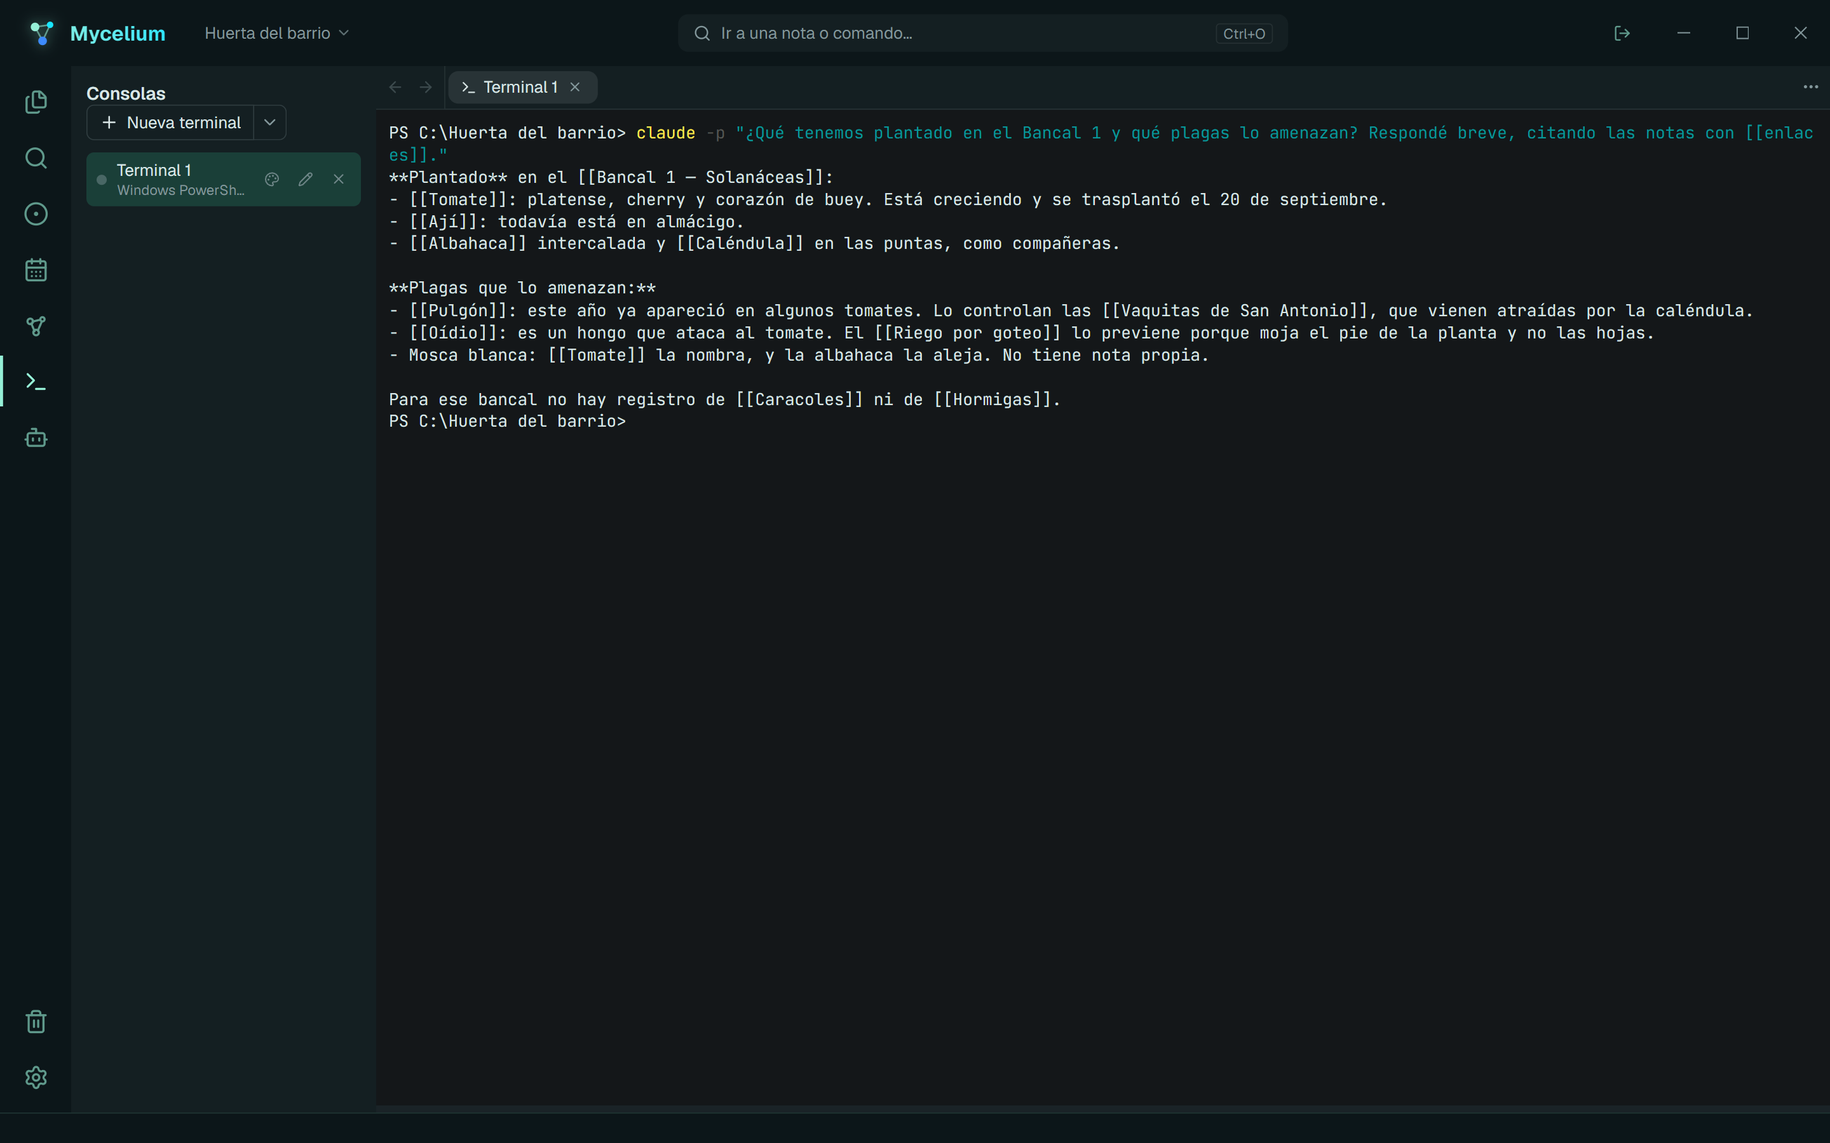
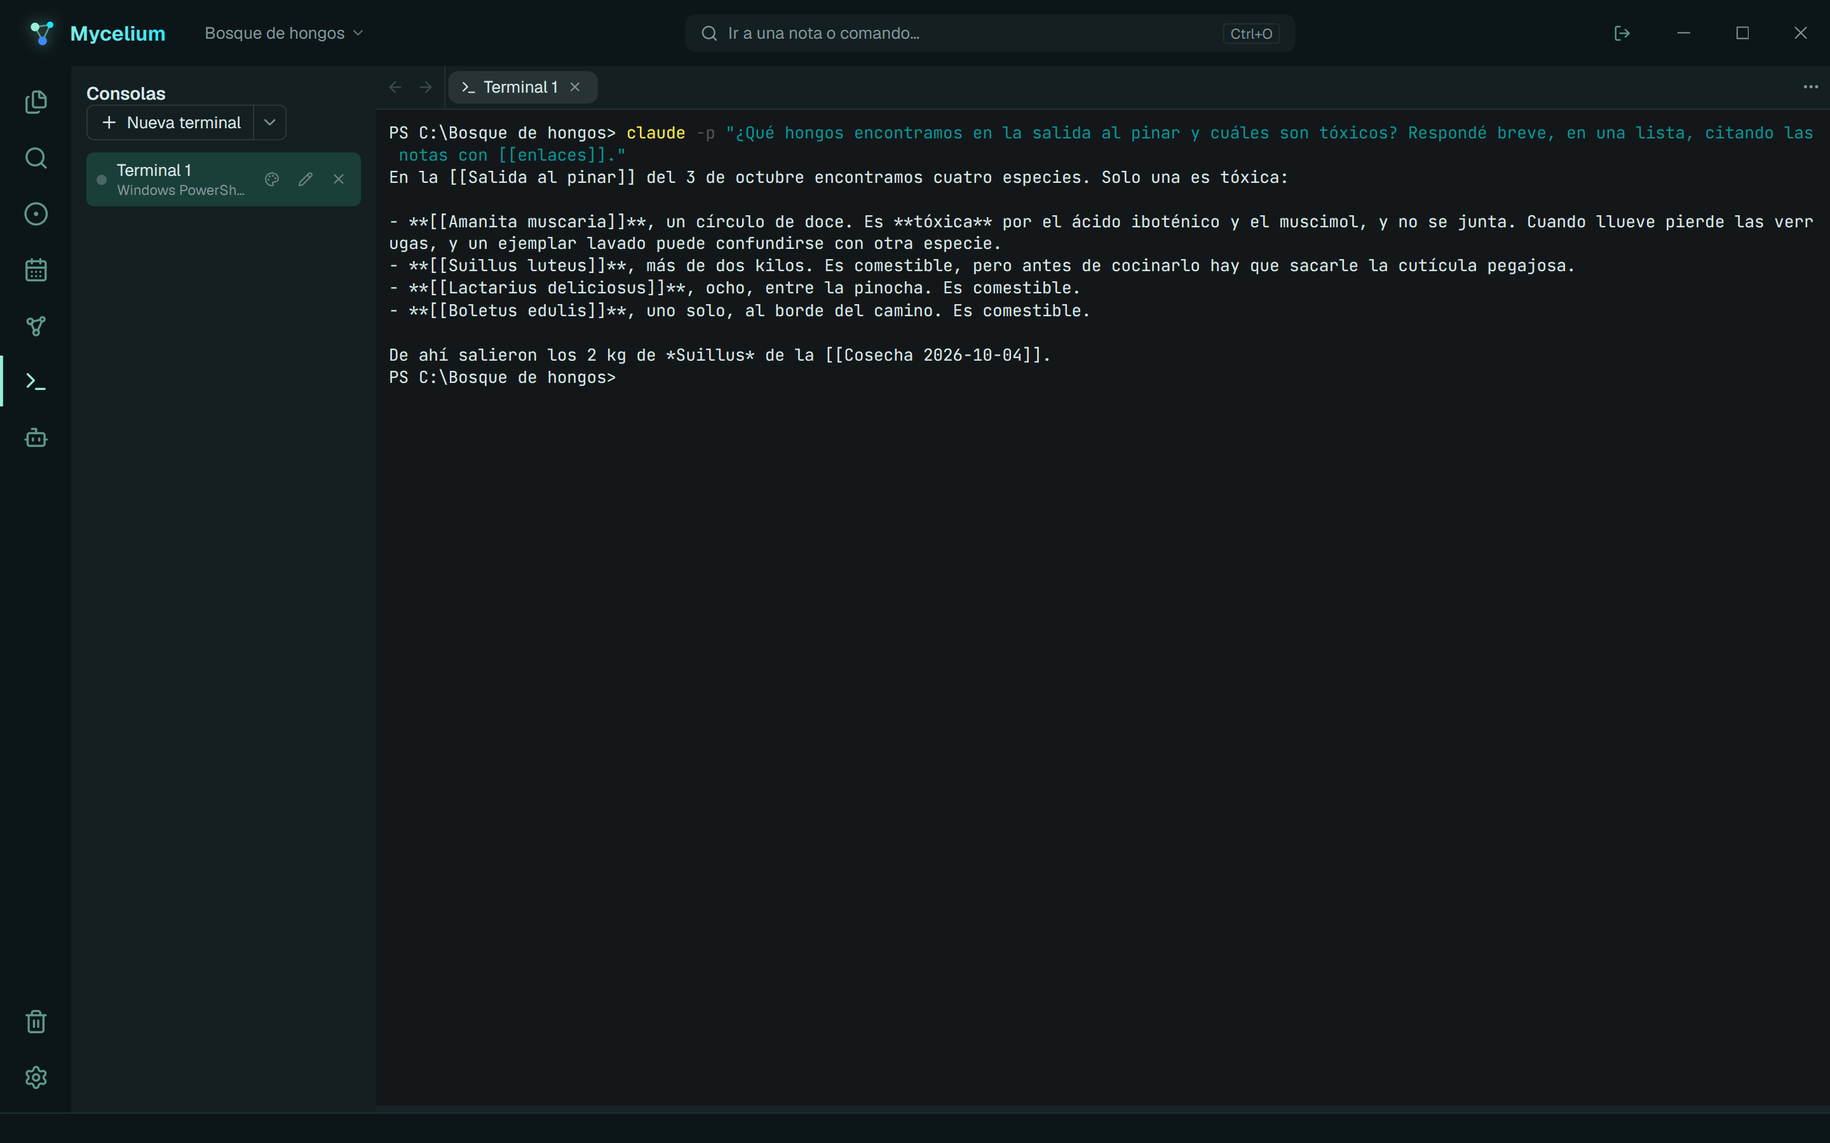
feat(capturas): el vault de ejemplo pasa a ser el bosque de hongos
Las diez capturas se rehicieron sobre un vault de demostración nuevo,
«Bosque de hongos» (especies, conceptos, cultivo de gírgolas, salidas de
recolección), con la misma composición que las de la huerta: la nota
protagonista es «Gírgola», la de lectura con retroenlaces es «Micorrizas»,
el lienzo es «Ciclo de vida del hongo» y la terminal responde de verdad a
«¿qué hongos encontramos en la salida al pinar y cuáles son tóxicos?».

- Recortes: el lienzo nuevo tiene otra composición, así que su recorte de
  escritorio (1410×1300) y el de celular (670×806) cambian; el de lectura
  crece a 1342×1171 para no cortar el dibujo embebido.
- La terminal angosta del celular queda en 804×760.
- index.html: alt de cada captura, pie de portada, ejemplo de búsqueda
  (tag:comestible, estado:fructificando) y pregunta a Claude Code.
- README, DESIGN y el contrato de impeccable nombran el vault nuevo.

diff --git a/public/index.html b/public/index.html
@@ -28,7 +28,7 @@
   <header class="portada" id="inicio">
     <picture class="portada-red">
       <source media="(max-width: 760px)" srcset="capturas/02-grafo-portada-movil.webp" width="1000" height="1364">
-      <img src="capturas/02-grafo-portada-1440.webp" srcset="capturas/02-grafo-portada-1440.webp 1440w, capturas/02-grafo-portada.webp 2560w" sizes="80vw" width="2560" height="1540" fetchpriority="high" decoding="async" alt="El grafo de conexiones del vault «Huerta del barrio»: decenas de notas como círculos de colores según su etiqueta —cultivos, bancales, plagas, encuentros—, unidas por líneas finas que forman una red, con «Huerta del barrio» en el centro.">
+      <img src="capturas/02-grafo-portada-1440.webp" srcset="capturas/02-grafo-portada-1440.webp 1440w, capturas/02-grafo-portada.webp 2560w" sizes="80vw" width="2560" height="1540" fetchpriority="high" decoding="async" alt="El grafo de conexiones del vault «Bosque de hongos»: decenas de notas como círculos de colores según su etiqueta —especies en verde, tóxicas en rojo, conceptos en azul, lotes de cultivo en violeta, salidas en rosa, plagas en naranja—, unidas por líneas finas que forman una red, con «Bosque de hongos» en el centro.">
     </picture>
     <div class="portada-velo" aria-hidden="true"></div>
 
@@ -77,7 +77,7 @@
       <p class="version-linea"><span data-mic="con-version">Mycelium <span data-mic="version">2.4.0</span> · </span>Windows, macOS y Linux</p>
     </div>
 
-    <p class="portada-pie">el grafo real del vault de ejemplo «Huerta del barrio»</p>
+    <p class="portada-pie">el grafo real del vault de ejemplo «Bosque de hongos»</p>
   </header>
 
   <main id="contenido" class="red">
@@ -95,7 +95,7 @@
           <p class="nodo-nombre" aria-hidden="true">escribir</p>
         </div>
         <figure class="captura" style="--ancho-max: 26rem">
-          <div class="marco"><img src="capturas/01-nota-en-vivo-recorte.webp" width="828" height="914" loading="lazy" decoding="async" alt="La nota «Tomate» en el editor en vivo: arriba sus propiedades (familia solanáceas, Bancal 1, estado creciendo, etiquetas #cultivo y #verano), debajo el texto con enlaces a otras notas, un callout de consejo y uno de advertencia."></div>
+          <div class="marco"><img src="capturas/01-nota-en-vivo-recorte.webp" width="828" height="914" loading="lazy" decoding="async" alt="La nota «Gírgola» en el editor en vivo: arriba sus propiedades (Pleurotus ostreatus, familia pleurotáceas, hábitat madera muerta de álamo y sauce, comestible, estado fructificando, etiquetas #especie, #comestible y #saprofita), debajo el texto con enlaces a otras notas y un callout de consejo sobre ventilar el cultivo."></div>
         </figure>
       </article>
 
@@ -107,19 +107,19 @@
           <p class="nodo-nombre" aria-hidden="true">conectar</p>
         </div>
         <figure class="captura" style="--ancho-max: 34rem">
-          <div class="marco"><picture><source media="(max-width: 760px)" srcset="capturas/05-lectura-enlaces-recorte-movil.webp" width="662" height="763"><img src="capturas/05-lectura-enlaces-recorte-1x.webp" srcset="capturas/05-lectura-enlaces-recorte-1x.webp 671w, capturas/05-lectura-enlaces-recorte.webp 1342w" sizes="(max-width: 760px) 100vw, 34rem" width="1342" height="1123" loading="lazy" decoding="async" alt="La nota «Tres hermanas» en lectura, con el panel de enlaces abierto en la pestaña de retroenlaces: las notas que la citan —Calendario de siembra, Maíz, Asociación de cultivos, Bancal 3, Bitácora de temporada, Poroto, Zapallo— con el fragmento donde la mencionan."></picture></div>
+          <div class="marco"><picture><source media="(max-width: 760px)" srcset="capturas/05-lectura-enlaces-recorte-movil.webp" width="662" height="763"><img src="capturas/05-lectura-enlaces-recorte-1x.webp" srcset="capturas/05-lectura-enlaces-recorte-1x.webp 671w, capturas/05-lectura-enlaces-recorte.webp 1342w" sizes="(max-width: 760px) 100vw, 34rem" width="1342" height="1171" loading="lazy" decoding="async" alt="La nota «Micorrizas» en lectura, con parte de su dibujo de la red micorrícica a la izquierda y el panel de enlaces abierto en la pestaña de retroenlaces: las notas que la citan —Ciclo de vida del hongo, Bosque de hongos, Hifa, Identificación segura, Micelio, Red micorrícica, Saprofitos, Amanita muscaria— con el fragmento donde la mencionan."></picture></div>
         </figure>
       </article>
 
       <article class="nodo" id="encontrar" aria-labelledby="t-encontrar">
         <div class="nodo-texto">
           <h3 id="t-encontrar">Tres letras y estás ahí</h3>
-          <p><kbd>Ctrl</kbd>&#8239;+&#8239;<kbd>O</kbd> abre cualquier nota y <kbd>Ctrl</kbd>&#8239;+&#8239;<kbd>P</kbd>, cualquier comando. La búsqueda global entra también en el contenido: <code>tag:cultivo</code> filtra por etiqueta y <code>estado:creciendo</code>, por una propiedad.</p>
+          <p><kbd>Ctrl</kbd>&#8239;+&#8239;<kbd>O</kbd> abre cualquier nota y <kbd>Ctrl</kbd>&#8239;+&#8239;<kbd>P</kbd>, cualquier comando. La búsqueda global entra también en el contenido: <code>tag:comestible</code> filtra por etiqueta y <code>estado:fructificando</code>, por una propiedad.</p>
           <span class="punto" aria-hidden="true"></span>
           <p class="nodo-nombre" aria-hidden="true">encontrar</p>
         </div>
         <figure class="captura" style="--ancho-max: 40rem">
-          <div class="marco"><picture><source media="(max-width: 760px)" srcset="capturas/03-paleta-recorte-movil.webp" width="608" height="452"><img src="capturas/03-paleta-recorte-1x.webp" srcset="capturas/03-paleta-recorte-1x.webp 634w, capturas/03-paleta-recorte.webp 1267w" sizes="(max-width: 760px) 100vw, 40rem" width="1267" height="706" loading="lazy" decoding="async" alt="La paleta abierta con «tom» escrito: la primera opción es la nota «Tomate», de la carpeta Cultivos, seguida de otras notas que coinciden y de «Crear nota «tom»»; al pie, los atajos Ctrl+O para notas y Ctrl+P para comandos."></picture></div>
+          <div class="marco"><picture><source media="(max-width: 760px)" srcset="capturas/03-paleta-recorte-movil.webp" width="608" height="452"><img src="capturas/03-paleta-recorte-1x.webp" srcset="capturas/03-paleta-recorte-1x.webp 634w, capturas/03-paleta-recorte.webp 1267w" sizes="(max-width: 760px) 100vw, 40rem" width="1267" height="706" loading="lazy" decoding="async" alt="La paleta abierta con «gír» escrito: la primera opción es la nota «Gírgola», de la carpeta Especies, seguida de otras notas que coinciden y de «Crear nota «gír»»; al pie, los atajos Ctrl+O para notas y Ctrl+P para comandos."></picture></div>
         </figure>
       </article>
 
@@ -131,7 +131,7 @@
           <p class="nodo-nombre" aria-hidden="true">agendar</p>
         </div>
         <figure class="captura" style="--ancho-max: 30rem">
-          <div class="marco"><picture><source media="(max-width: 760px)" srcset="capturas/06-calendario-recorte-movil.webp" width="583" height="727"><img src="capturas/06-calendario-recorte-1x.webp" srcset="capturas/06-calendario-recorte-1x.webp 490w, capturas/06-calendario-recorte.webp 980w" sizes="(max-width: 760px) 100vw, 30rem" width="980" height="802" loading="lazy" decoding="async" alt="La agenda de octubre de 2026: un recordatorio por línea, con su casilla, su color y su hora —regar los almácigos los miércoles a las 08:00, revisar el pulgón, dar vuelta el compost los sábados a las 10:00, la asamblea a las 18:00—."></picture></div>
+          <div class="marco"><picture><source media="(max-width: 760px)" srcset="capturas/06-calendario-recorte-movil.webp" width="583" height="727"><img src="capturas/06-calendario-recorte-1x.webp" srcset="capturas/06-calendario-recorte-1x.webp 490w, capturas/06-calendario-recorte.webp 980w" sizes="(max-width: 760px) 100vw, 30rem" width="980" height="802" loading="lazy" decoding="async" alt="La agenda de octubre de 2026: un recordatorio por línea, con su casilla, su color y su hora —revisar la humedad los miércoles a las 08:00, la esporada de gírgola, remojar los troncos los sábados a las 10:00, inocular el lote 4, la salida al pinar a las 08:00—."></picture></div>
         </figure>
       </article>
 
@@ -143,14 +143,14 @@
           <p class="nodo-nombre" aria-hidden="true">organizar</p>
         </div>
         <figure class="captura" style="--ancho-max: 34rem">
-          <div class="marco"><picture><source media="(max-width: 760px)" srcset="capturas/07-lienzo-o-base-recorte-movil.webp" width="720" height="748"><img src="capturas/07-lienzo-o-base-recorte-1x.webp" srcset="capturas/07-lienzo-o-base-recorte-1x.webp 663w, capturas/07-lienzo-o-base-recorte.webp 1325w" sizes="(max-width: 760px) 100vw, 34rem" width="1325" height="1202" loading="lazy" decoding="async" alt="Parte del lienzo «Plan de bancales»: la tarjeta central «Huerta del barrio» unida por flechas al grupo del Bancal 1 (tomate, ají, albahaca y caléndula), al del Bancal 3 (maíz, poroto y zapallo) y a la tarjeta del rincón del compost."></picture></div>
+          <div class="marco"><picture><source media="(max-width: 760px)" srcset="capturas/07-lienzo-o-base-recorte-movil.webp" width="670" height="806"><img src="capturas/07-lienzo-o-base-recorte-1x.webp" srcset="capturas/07-lienzo-o-base-recorte-1x.webp 705w, capturas/07-lienzo-o-base-recorte.webp 1410w" sizes="(max-width: 760px) 100vw, 34rem" width="1410" height="1300" loading="lazy" decoding="async" alt="Parte del lienzo «Ciclo de vida del hongo»: tarjetas numeradas unidas por flechas —espora, hifa, micelio, primordio, seta y esporada— que vuelven a empezar, alrededor de la tarjeta central con el título del ciclo."></picture></div>
         </figure>
       </article>
 
       <article class="nodo nodo-ia" id="claude-code" aria-labelledby="t-claude-code">
         <div class="nodo-texto">
           <h3 id="t-claude-code">Acá Claude Code entra a la red</h3>
-          <p>Útil sin IA, mejor con IA. Abrís la terminal integrada y le preguntás a Claude Code <q>¿qué tenemos plantado en el Bancal 1 y qué plagas lo amenazan?</q> Busca en tus notas, te responde citándolas con sus <code>[[enlaces]]</code> y, si le pedís, anota lo nuevo donde corresponde.</p>
+          <p>Útil sin IA, mejor con IA. Abrís la terminal integrada y le preguntás a Claude Code <q>¿qué hongos encontramos en la salida al pinar y cuáles son tóxicos?</q> Busca en tus notas, te responde citándolas con sus <code>[[enlaces]]</code> y, si le pedís, anota lo nuevo donde corresponde.</p>
           <span class="punto" aria-hidden="true"></span>
           <p class="nodo-nombre" aria-hidden="true">claude code</p>
         </div>
@@ -169,7 +169,7 @@
           </div>
         </dl>
         <figure class="captura captura-terminal">
-          <div class="marco"><picture><source media="(max-width: 760px)" srcset="capturas/04-terminal-ia-movil.webp" width="804" height="864"><img src="capturas/04-terminal-ia-salida-1x.webp" srcset="capturas/04-terminal-ia-salida-1x.webp 1144w, capturas/04-terminal-ia-salida.webp 2288w" sizes="(max-width: 760px) 100vw, 72rem" width="2288" height="520" loading="lazy" decoding="async" alt="La terminal integrada en la carpeta «Huerta del barrio»: se le pregunta a Claude Code qué hay en el Bancal 1 y qué plagas lo amenazan, y responde con tomate, ají, albahaca y caléndula y con el pulgón, el oídio y la mosca blanca, citando cada nota con [[enlaces]]."></picture></div>
+          <div class="marco"><picture><source media="(max-width: 760px)" srcset="capturas/04-terminal-ia-movil.webp" width="804" height="760"><img src="capturas/04-terminal-ia-salida-1x.webp" srcset="capturas/04-terminal-ia-salida-1x.webp 1144w, capturas/04-terminal-ia-salida.webp 2288w" sizes="(max-width: 760px) 100vw, 72rem" width="2288" height="520" loading="lazy" decoding="async" alt="La terminal integrada en la carpeta «Bosque de hongos»: se le pregunta a Claude Code qué hongos se encontraron en la salida al pinar y cuáles son tóxicos, y responde con Suillus luteus, Lactarius deliciosus y Boletus edulis, comestibles, y con la Amanita muscaria, la única tóxica, citando cada nota con [[enlaces]]."></picture></div>
         </figure>
         <p class="nota-al-pie">Es opcional: sin IA, Mycelium es el mismo. Para usarla necesitás Claude Code instalado; el control de la IA viene apagado y se enciende por vault.</p>
       </article>
@@ -183,7 +183,7 @@
         </div>
         <div class="dos-luces">
           <figure class="captura">
-            <div class="marco"><picture><source media="(max-width: 760px)" srcset="capturas/08-temas-bio-claro-recorte-movil.webp" width="700" height="806"><img src="capturas/08-temas-bio-claro-recorte-1x.webp" srcset="capturas/08-temas-bio-claro-recorte-1x.webp 814w, capturas/08-temas-bio-claro-recorte.webp 1627w" sizes="(max-width: 760px) 100vw, 24rem" width="1627" height="1102" loading="lazy" decoding="async" alt="La nota «Tomate» con el tema Bioluminiscencia en modo claro: el título y los enlaces en turquesa, las propiedades y el primer párrafo sobre fondo blanco azulado."></picture></div>
+            <div class="marco"><picture><source media="(max-width: 760px)" srcset="capturas/08-temas-bio-claro-recorte-movil.webp" width="700" height="806"><img src="capturas/08-temas-bio-claro-recorte-1x.webp" srcset="capturas/08-temas-bio-claro-recorte-1x.webp 814w, capturas/08-temas-bio-claro-recorte.webp 1627w" sizes="(max-width: 760px) 100vw, 24rem" width="1627" height="1102" loading="lazy" decoding="async" alt="La nota «Gírgola» con el tema Bioluminiscencia en modo claro: el título y los enlaces en turquesa, las propiedades y el primer párrafo sobre fondo blanco azulado."></picture></div>
             <figcaption>Bioluminiscencia, claro</figcaption>
           </figure>
           <figure class="captura">

diff --git a/.impeccable/surfaces/public-index-html.md b/.impeccable/surfaces/public-index-html.md
@@ -7,7 +7,7 @@ related_targets: ["public/estilos.css", "public/sitio.js", "src/inyectar.ts", "s
 
 # Landing de Mycelium
 
-Modo: **persuade**. Visitante: quien toma notas y llega a ver qué es Mycelium y a bajarlo. Acción: descargar el instalador de la última versión para su sistema. Prueba: capturas reales de la app (vault de demostración «Huerta del barrio»), novedades de la versión inyectadas desde `latest.json`. Restricciones: sin mencionar a Obsidian; sin testimonios ni métricas; español rioplatense; oscuro (Bioluminiscencia) por defecto, claro por `prefers-color-scheme`; HTML/CSS/JS puros servidos por un Worker que inyecta versión, fecha, titular y novedades.
+Modo: **persuade**. Visitante: quien toma notas y llega a ver qué es Mycelium y a bajarlo. Acción: descargar el instalador de la última versión para su sistema. Prueba: capturas reales de la app (vault de demostración «Bosque de hongos»), novedades de la versión inyectadas desde `latest.json`. Restricciones: sin mencionar a Obsidian; sin testimonios ni métricas; español rioplatense; oscuro (Bioluminiscencia) por defecto, claro por `prefers-color-scheme`; HTML/CSS/JS puros servidos por un Worker que inyecta versión, fecha, titular y novedades.
 
 > [!info] Cambio de dirección (2026-10-07)
 > La dirección anterior, «Un día con tu vault» (estructura 6 del seed `f55ffbfc`: regla del
@@ -26,7 +26,7 @@ OWN-WORLD: Bioluminiscencia: Esporo, Esporo profundo (el lienzo del grafo), Lien
 
 STORY: Entiende que Mycelium es notas Markdown enlazadas en una carpeta propia que se recorren como una red; sigue la hifa nodo por nodo y ve cada función en una captura legible; llega a Claude Code como un nodo más (opcional, el vault como memoria); termina en la versión vigente y lo que trae, y descarga para su sistema.
 
-FIRST VIEWPORT: El grafo real de «Huerta del barrio» a sangre en todo el ancho (`object-fit: cover`, recorte del lienzo del grafo sin el cromo de la app), con viñeteado radial hacia Esporo y una sombra que oscurece la zona del texto. Encima, arriba: logo con degradé y navegación (Recorrido, Claude Code, Novedades, Descargar <versión>). A la izquierda: H1 «Tu red de conocimiento, viva y conectada» en Source Serif (Humus, sin degradé: va sobre una imagen cargada y necesita todo el contraste), la bajada nodo/hifa, el botón Hifa «Descargar para <sistema>» con su nota pegada y «Otras plataformas», y la línea de versión inyectada. Al pie, el pie de foto en mono: el grafo real del vault de ejemplo.
+FIRST VIEWPORT: El grafo real de «Bosque de hongos» a sangre en todo el ancho (`object-fit: cover`, recorte del lienzo del grafo sin el cromo de la app), con viñeteado radial hacia Esporo y una sombra que oscurece la zona del texto. Encima, arriba: logo con degradé y navegación (Recorrido, Claude Code, Novedades, Descargar <versión>). A la izquierda: H1 «Tu red de conocimiento, viva y conectada» en Source Serif (Humus, sin degradé: va sobre una imagen cargada y necesita todo el contraste), la bajada nodo/hifa, el botón Hifa «Descargar para <sistema>» con su nota pegada y «Otras plataformas», y la línea de versión inyectada. Al pie, el pie de foto en mono: el grafo real del vault de ejemplo.
 
 FORM: seed: f55ffbfc; dirección reemplazada por elección del usuario el 2026-10-07 (D + primera parte de B)
 Después de la portada, una hifa vertical en el margen izquierdo une los nodos; cada nodo es su punto en la línea a la altura de la primera línea del titular serif, que encabeza su columna, dos o tres líneas, y su recorte de captura legible al costado, con el texto centrado contra la captura. El nombre del nodo (`escribir`, `claude code`…) va como los rótulos del grafo: mono chico y tenue, debajo del punto y centrado sobre la hifa (a ≥861 px; más angosto no hay canal y queda solo el punto). El nodo `claude code` es el único resaltado (punto Brote más grande, terminal a lo ancho con marco Brote). La hifa entra al cierre y termina junto al número en un anillo Brote (aro y núcleo), el único brote de la página. Cierre (de la Opción B): 7/12 con «2.4.0» enorme en Geist 700 con el degradé, la fecha en mono debajo del número (fecha de tapa), el titular breve (el primer título de las notas del release, inyectado) y el sumario numerado de novedades (los grupos de las notas, cada uno con su detalle plegado); 5/12 bajo el título «Descargá Mycelium <versión>» (Geist 600), las tres descargas apiladas, cada una con su nota breve, la del sistema detectado arriba, marcada «tu sistema» y con el único botón relleno; sin sistema detectado, las tres en secundario. Después, el pie. Interacción insignia, una sola: la hifa se enciende con el scroll (cada tramo se llena hasta la altura de lectura) y cada nodo se ilumina cuando la línea lo alcanza; con `prefers-reduced-motion` o sin JS, todo encendido y estático. Además, solo las entradas de 160 ms / 4 px de las capturas.

diff --git a/DESIGN.md b/DESIGN.md
@@ -162,8 +162,8 @@ components:
 
 **Creative North Star: "La red"**
 
-La página es la red misma. Abre con el **grafo real** del vault de demostración «Huerta
-del barrio» a sangre, de borde a borde, bajo un velo que lo apaga detrás del texto; desde
+La página es la red misma. Abre con el **grafo real** del vault de demostración «Bosque
+de hongos» a sangre, de borde a borde, bajo un velo que lo apaga detrás del texto; desde
 ahí baja una **hifa**, una línea vertical de 1px en el margen izquierdo, que une las
 funciones como nodos: escribir, conectar, encontrar, agendar, organizar, claude code,
 temas. Cada nodo es un punto sobre la línea con su nombre debajo, en mono chico, como los

diff --git a/README.md b/README.md
@@ -54,7 +54,7 @@ muestra el modo de respaldo (sirve para probarlo).
 
 ## Capturas
 
-Las PNG de `capturas/` (2880×1800, vault de demostración «Huerta del barrio») son la fuente.
+Las PNG de `capturas/` (2880×1800, vault de demostración «Bosque de hongos») son la fuente.
 `npm run capturas` (corre solo antes de `dev`, `test` y `deploy`) las convierte con `sharp` en
 `public/capturas/` solo **recortes**: regiones de las capturas (`RECORTES` en el script), para que
 la interfaz se lea al tamaño en que se presenta —`<nombre><sufijo>.webp` a 2x, `-1x` para
